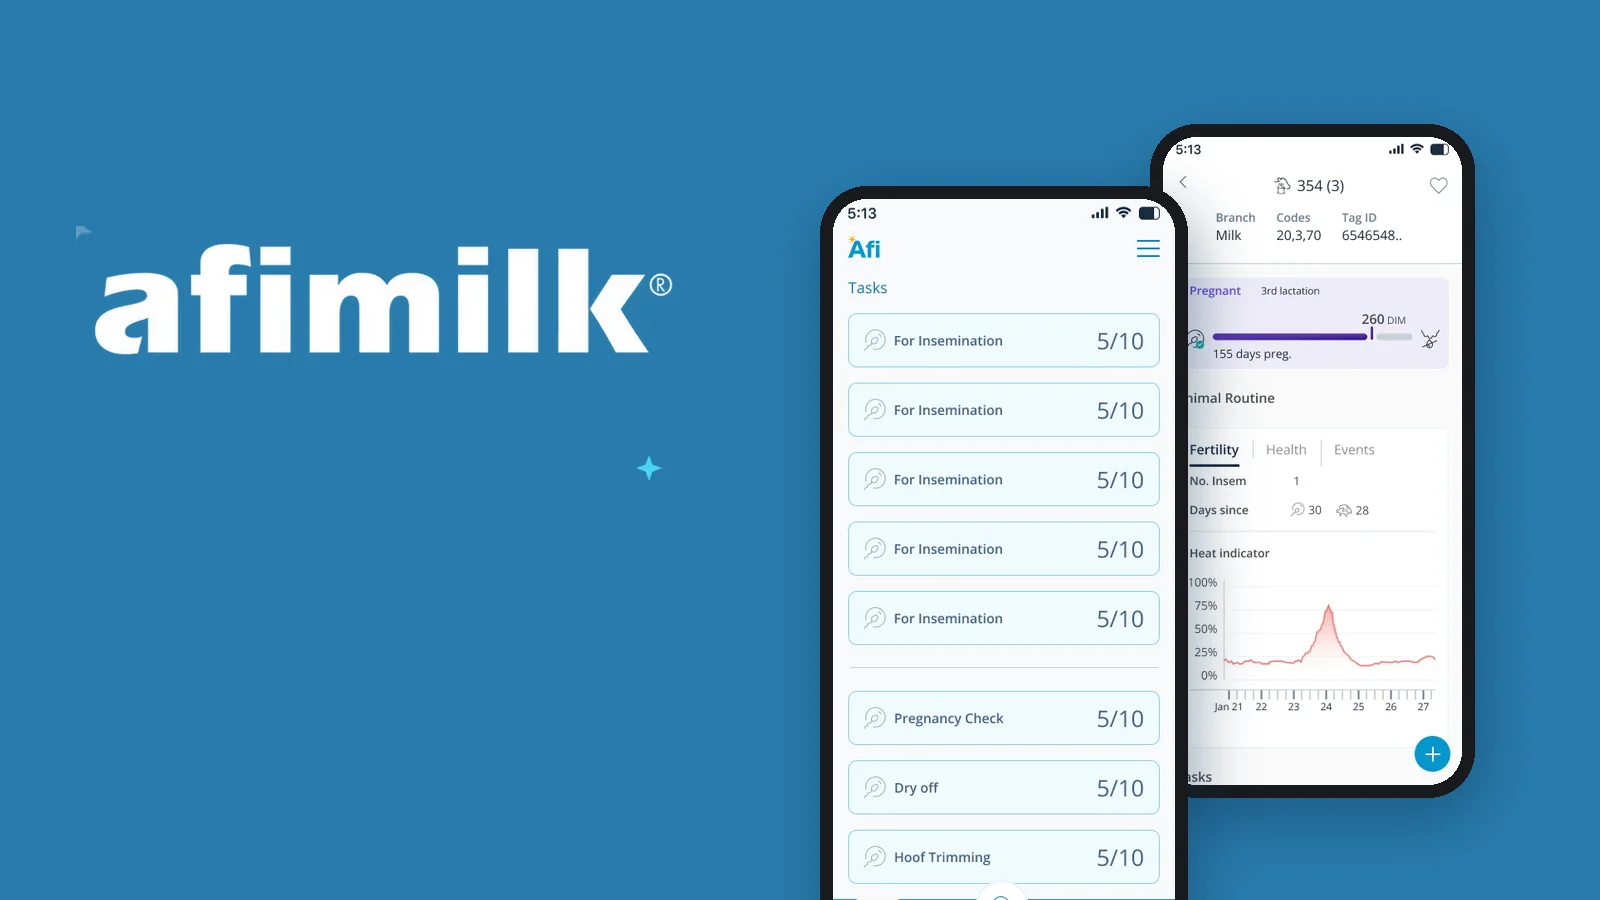
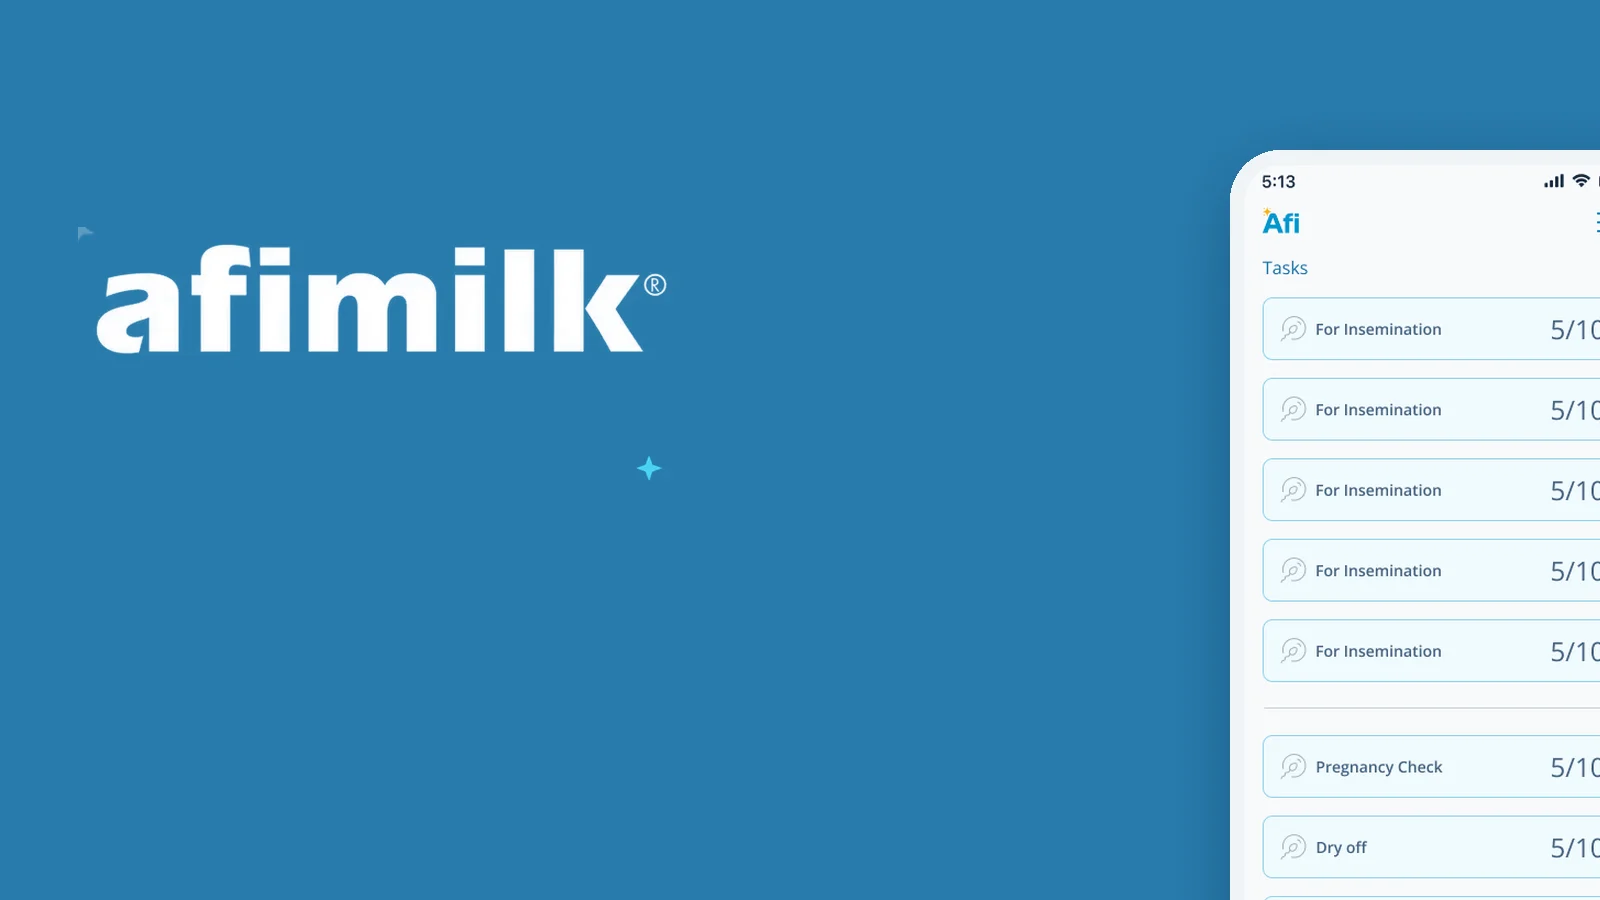
Farmers cover: one screen in the same light chrome as the other covers
Claude-Session: https://claude.ai/code/session_01U3LnkADmWK6BWBvsiVpdjW

diff --git a/scripts/afimilk-covers.py b/scripts/afimilk-covers.py
@@ -58,19 +58,19 @@ def base():
     return cv
 
 
-def phone(src, height, pad=13, radius=46):
-    """A plain device frame, so the screens read the same way as the browser windows."""
+def phone(src, height, pad=15, radius=50):
+    """A device frame in the same light chrome as the browser windows on the other covers."""
     sh = Image.open(src).convert('RGB')
     sh = sh.resize((int(sh.width * height / sh.height), height), Image.LANCZOS)
     fr = Image.new('RGBA', (sh.width + pad * 2, height + pad * 2), (0, 0, 0, 0))
-    ImageDraw.Draw(fr).rounded_rectangle((0, 0, fr.width - 1, fr.height - 1), radius, fill=(24, 25, 29, 255))
+    ImageDraw.Draw(fr).rounded_rectangle((0, 0, fr.width - 1, fr.height - 1), radius, fill=(241, 244, 247, 255))
     m = Image.new('L', sh.size, 0)
     ImageDraw.Draw(m).rounded_rectangle((0, 0, sh.width - 1, sh.height - 1), radius - pad, fill=255)
     fr.paste(sh, (pad, pad), m)
     return fr
 
 
-def drop(cv, layer, x, y, blur=30, strength=110):
+def drop(cv, layer, x, y, blur=34, strength=120):
     sh = Image.new('L', (W, H), 0)
     sh.paste(layer.split()[3].point(lambda v: strength if v > 8 else 0), (x + 6, y + 22))
     sh = sh.filter(ImageFilter.GaussianBlur(blur))
@@ -79,10 +79,9 @@ def drop(cv, layer, x, y, blur=30, strength=110):
     return cv
 
 
-# ---- Farmers: the two app screens in device frames, front one bleeding off the bottom ----
+# ---- Farmers: one app screen, running off the right and bottom like the windows ----
 cv = base()
-cv = drop(cv, phone(IMG / 'farmers' / 'cow-after.webp', 648), 1150, 124)
-cv = drop(cv, phone(ROOT / 'scripts' / 'assets' / 'farmers-tasks.png', 742), 820, 186)
+cv = drop(cv, phone(ROOT / 'scripts' / 'assets' / 'farmers-tasks.png', 860), 1230, 150)
 cv.save(IMG / 'farmers-1600.webp', quality=86)
 cv.resize((800, 450), Image.LANCZOS).save(IMG / 'farmers-800.webp', quality=86)
 print('wrote farmers')
